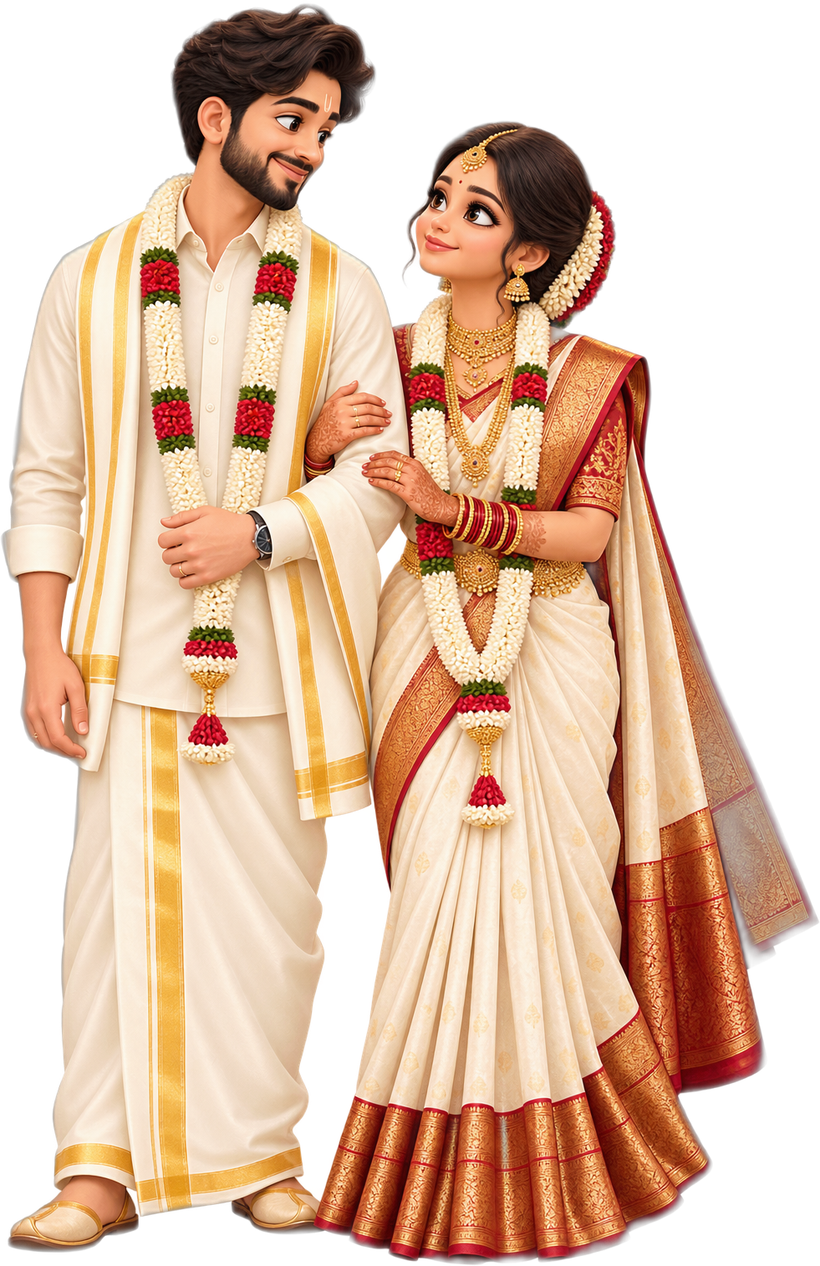
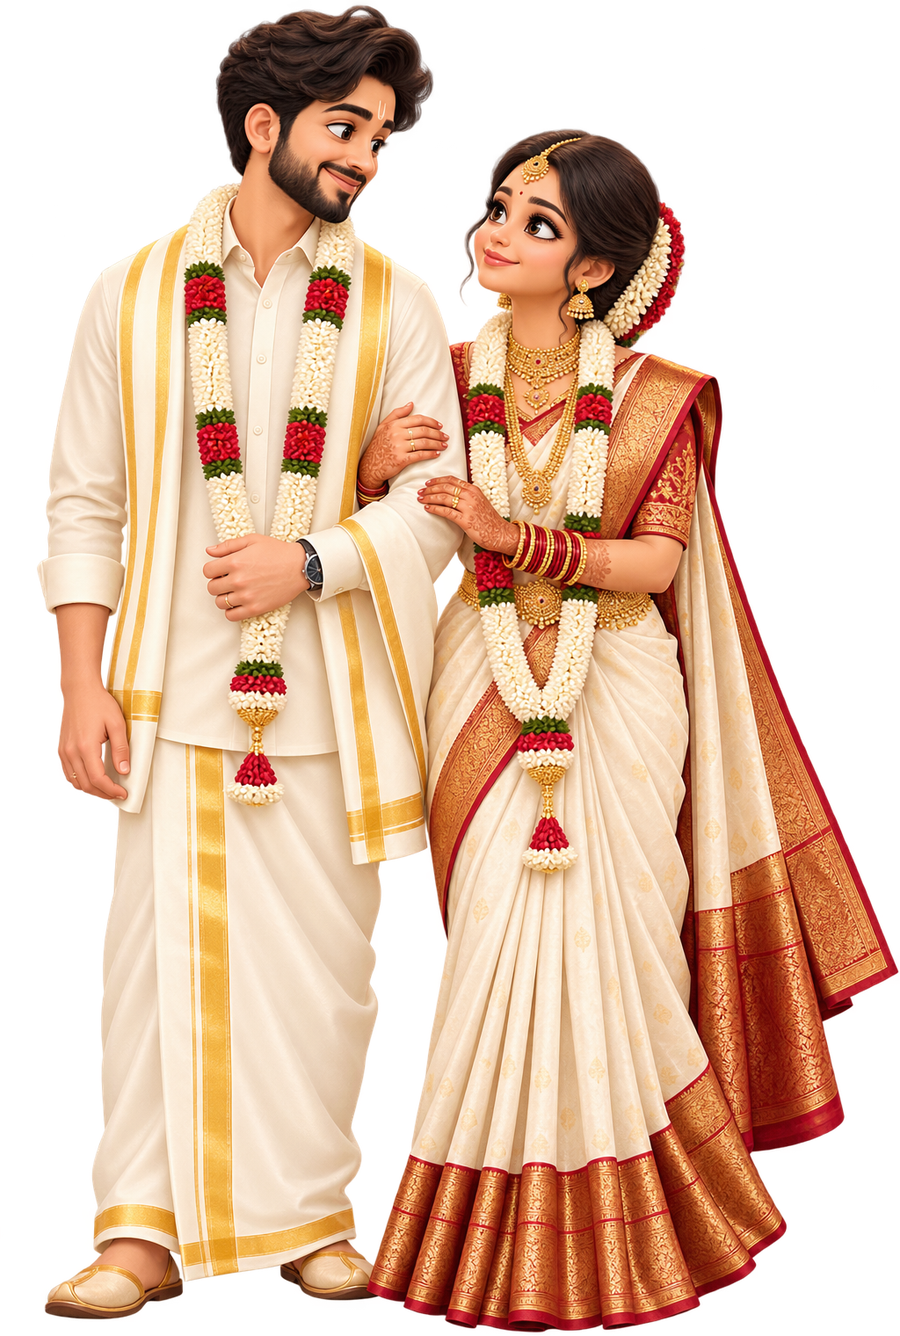
Exact transparent cutouts, Muslim Quran ayahs, 3D Save the Date
- Use the user's already-transparent couple cutouts exactly (crop to
  content + resize only; no background removal, which was adding smoky
  and dark artifacts).
- Muslim discovery scene now reveals Quran ayahs on tap instead of a
  romantic memory story (moonlight variant, RTL Arabic title).
- Save the Date replaces the RSVP form with a 3D tilting card: pointer
  parallax (rotateX/Y), depth-layered content (translateZ), floating
  rings and a confetti pop on "Add to calendar".
- Widen the discovery message bubble so ayahs are readable on mobile.

Claude-Session: https://claude.ai/code/session_01LCHXifQqPHef8THievQkxx

diff --git a/wedding/src/experience/scenes/Rsvp.jsx b/wedding/src/experience/scenes/Rsvp.jsx
@@ -1,4 +1,5 @@
-import { useState } from 'react'
+import { useRef, useState } from 'react'
+import { motion, useMotionValue, useSpring } from 'framer-motion'
 import { Reveal } from '../primitives/Reveal.jsx'
 import Confetti from '../primitives/Confetti.jsx'
 import InteractiveObject from '../primitives/InteractiveObject.jsx'
@@ -6,8 +7,8 @@ import { useExperience } from '../ExperienceContext.js'
 
 // =====================================================================
 //  SAVE THE DATE — replaces the RSVP form (not needed for these invites).
-//  A themed card with the date and a one-tap "Add to calendar" (.ics) that
-//  pops confetti. Fully client-side, works offline.
+//  A 3D, tilting card with the date and a one-tap "Add to calendar" (.ics)
+//  that pops confetti. Fully client-side, works offline.
 // =====================================================================
 function buildIcs(config) {
   const { date, couple, venue } = config
@@ -37,6 +38,26 @@ export default function Rsvp() {
   const { config } = useExperience()
   const [saved, setSaved] = useState(false)
   const { date, couple } = config
+  const cardRef = useRef(null)
+
+  // 3D pointer tilt (spring-smoothed).
+  const rxRaw = useMotionValue(0)
+  const ryRaw = useMotionValue(0)
+  const rotateX = useSpring(rxRaw, { stiffness: 200, damping: 20 })
+  const rotateY = useSpring(ryRaw, { stiffness: 200, damping: 20 })
+  const onMove = (e) => {
+    const el = cardRef.current
+    if (!el) return
+    const r = el.getBoundingClientRect()
+    const px = (e.clientX - r.left) / r.width - 0.5
+    const py = (e.clientY - r.top) / r.height - 0.5
+    ryRaw.set(px * 12)
+    rxRaw.set(-py * 12)
+  }
+  const onLeave = () => {
+    rxRaw.set(0)
+    ryRaw.set(0)
+  }
 
   const add = () => {
     const ics = buildIcs(config)
@@ -63,19 +84,38 @@ export default function Rsvp() {
       {saved && <Confetti className="savedate__confetti" />}
       <Reveal as="p" className="scene__eyebrow">Save the date</Reveal>
 
-      <div className="savedate__card">
-        <span className="savedate__mono" aria-hidden="true">{couple.monogram}</span>
-        <p className="savedate__day">{date.dateLabel}</p>
-        <p className="savedate__time">{date.timeLabel}</p>
-        <InteractiveObject
-          className={`savedate__btn${saved ? ' is-saved' : ''}`}
-          label="Add to your calendar"
-          active={saved}
-          onActivate={add}
+      <motion.div
+        className="savedate__stage"
+        initial={{ opacity: 0, y: 34, scale: 0.9 }}
+        whileInView={{ opacity: 1, y: 0, scale: 1 }}
+        viewport={{ once: true, amount: 0.4 }}
+        transition={{ type: 'spring', stiffness: 170, damping: 15 }}
+        style={{ perspective: 1000 }}
+      >
+        <motion.div
+          ref={cardRef}
+          className="savedate__card"
+          style={{ rotateX, rotateY, transformStyle: 'preserve-3d' }}
+          onMouseMove={onMove}
+          onMouseLeave={onLeave}
         >
-          <span>{saved ? 'Added — see you there ✓' : 'Add to calendar'}</span>
-        </InteractiveObject>
-      </div>
+          <span className="savedate__ring savedate__ring--a" aria-hidden="true" style={{ transform: 'translateZ(6px)' }} />
+          <span className="savedate__ring savedate__ring--b" aria-hidden="true" style={{ transform: 'translateZ(6px)' }} />
+          <span className="savedate__mono" style={{ transform: 'translateZ(48px)' }}>{couple.monogram}</span>
+          <p className="savedate__day" style={{ transform: 'translateZ(34px)' }}>{date.dateLabel}</p>
+          <p className="savedate__time" style={{ transform: 'translateZ(24px)' }}>{date.timeLabel}</p>
+          <div style={{ transform: 'translateZ(56px)' }}>
+            <InteractiveObject
+              className={`savedate__btn${saved ? ' is-saved' : ''}`}
+              label="Add to your calendar"
+              active={saved}
+              onActivate={add}
+            >
+              <span>{saved ? 'Added — see you there ✓' : 'Add to calendar'}</span>
+            </InteractiveObject>
+          </div>
+        </motion.div>
+      </motion.div>
 
       <Reveal as="p" className="savedate__note" delay={0.15}>
         {saved ? 'We can’t wait to celebrate with you.' : 'Keep this day close to your heart.'}

diff --git a/wedding/src/experience/experience.css b/wedding/src/experience/experience.css
@@ -800,3 +800,19 @@
 }
 .savedate__btn.is-saved { background: transparent; color: var(--x-gold, #f0d183); border: 1px solid var(--x-line, rgba(224, 196, 120, 0.5)); box-shadow: none; }
 .savedate__note { font-style: italic; color: var(--x-ink-soft, #caa885); margin: 6px 0 0; }
+
+/* Save the Date — 3D card depth + floating rings */
+.savedate__stage { display: block; }
+.savedate__card { position: relative; overflow: visible; will-change: transform; }
+.savedate__ring {
+  position: absolute; border-radius: 50%; pointer-events: none; opacity: 0.55;
+  border: 1px solid color-mix(in srgb, var(--x-gold, #f0d183) 48%, transparent);
+}
+.savedate__ring--a { width: 128px; height: 128px; top: -36px; right: -32px; }
+.savedate__ring--b {
+  width: 84px; height: 84px; bottom: -28px; left: -24px;
+  border-color: color-mix(in srgb, var(--x-accent, #c98a5e) 55%, transparent);
+}
+
+/* Discovery popup fits a full ayah. */
+.discovery__msg { max-width: min(80vw, 360px); }

diff --git a/wedding/src/experience/configs/muslim.js b/wedding/src/experience/configs/muslim.js
@@ -46,12 +46,12 @@ const muslim = {
   discoveryScene: {
     variant: 'moonlight',
     title: 'مَوَدَّةً وَرَحْمَةً',
-    caption: 'Love and mercy between your hearts — tap to uncover a memory.',
+    caption: 'Love and mercy between you — tap a moon to reveal an ayah.',
     messages: [
-      'The night we first spoke until sunrise.',
-      'A promise made under an open sky.',
-      'The city where it all began.',
-      'The first “forever”.',
+      '“And of His signs is that He created for you mates from among yourselves.” — Ar-Rum 30:21',
+      '“They are a garment for you, and you are a garment for them.” — Al-Baqarah 2:187',
+      '“And We created you in pairs.” — An-Naba 78:8',
+      '“That you may find tranquillity in them.” — Ar-Rum 30:21',
     ],
   },
 
